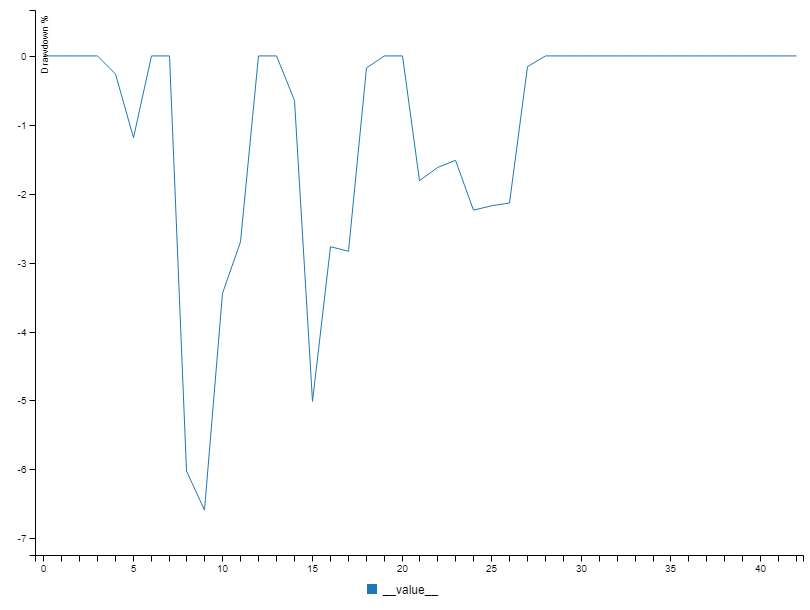
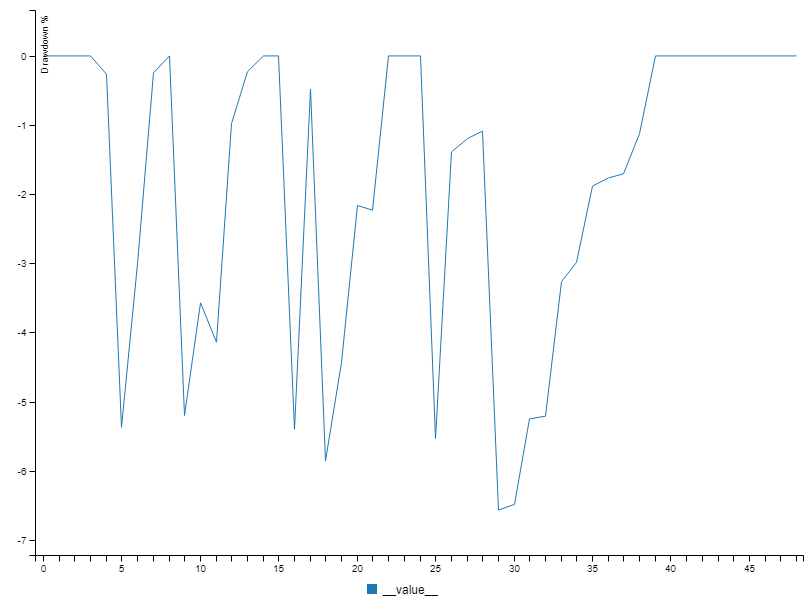
Added stop loss to the example strategy.

diff --git a/index.js b/index.js
@@ -43,6 +43,10 @@ async function main() {
                 exitPosition(); // Sell when price is above average.
             }
         },
+
+        stopLoss: (entryPrice, latestBar, lookback) => { // Intrabar stop loss.
+            return entryPrice * (5/100); // Stop out on 5% loss from entry price.
+        },
     };
 
     console.log("Backtesting...");
